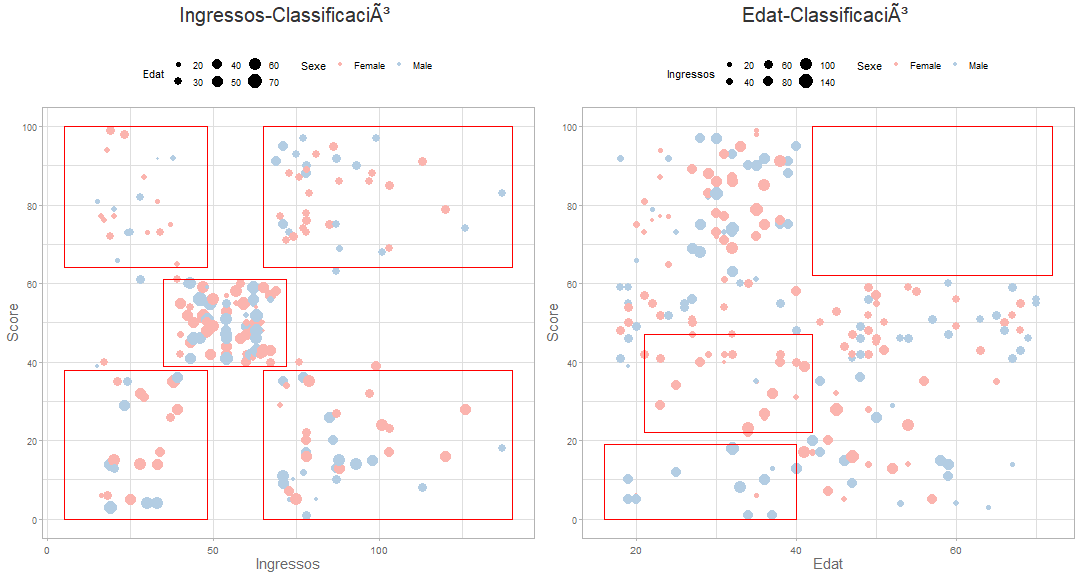
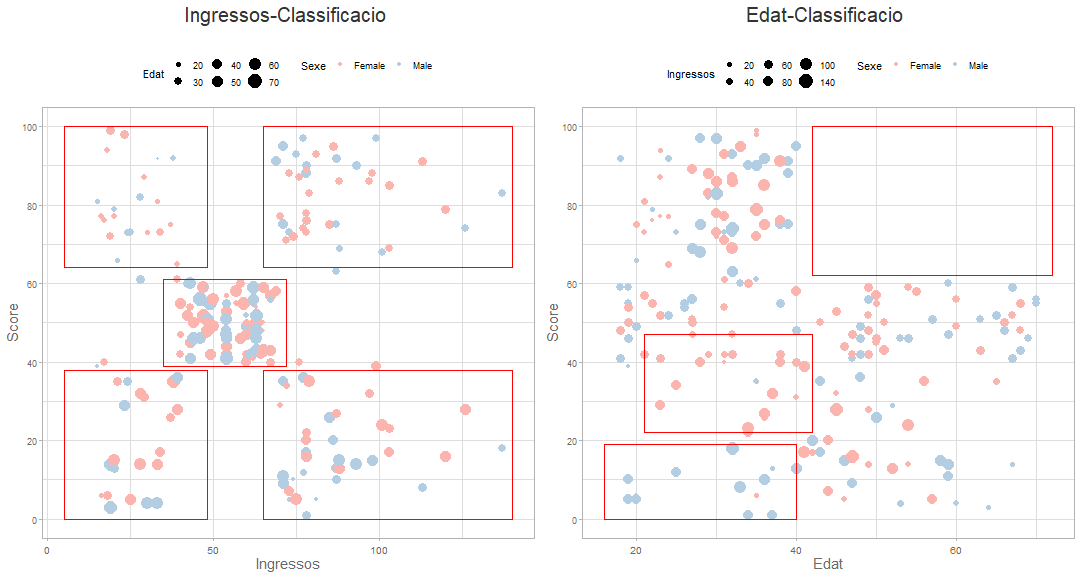
revisio texte

Changed region(s): [[0.1528, 0.0, 0.3667, 0.0625], [0.6722, 0.0, 0.8556, 0.0625]]

diff --git a/_posts/2019-05-11-AnalisiClients.md b/_posts/2019-05-11-AnalisiClients.md
@@ -12,8 +12,8 @@ tags: myblog
  
 ### **Anàlisi Descriptiu**
  
-L'anàlisi descriptiu ens ha de permetre conèixer la tipologia actual dels nostres clients.  
-Discretitzem les variables numèriques per facilitar l'interpretabilitat.  
+L'anàlisi descriptiu ens ha de permetre conàixer la tipologia actual dels clients.  
+Discretitzem les variables numÃ©riques per facilitar l'interpretabilitat.  
   
 
  
@@ -35,26 +35,26 @@ Discretitzem les variables numèriques per facilitar l'interpretabilitat.
  
 &nbsp;  
  
-<img src="/figures/unnamed-chunk-8-1.png" title="plot of chunk unnamed-chunk-8" alt="plot of chunk unnamed-chunk-8" style="display: block; margin: auto;" />
+<img src="jEspluga.github.io/figures/unnamed-chunk-8-1.png" title="plot of chunk unnamed-chunk-8" alt="plot of chunk unnamed-chunk-8" style="display: block; margin: auto;" />
  
 * #### **Sexe**
  
-DiferÃ¨ncia entre homes i dones del 12% (24 persones d'una mostra de 200). 
+Diferència entre homes i dones del 12% (24 persones d'una mostra de 200). 
  
 * #### **Edat**
  
 Un 30% dels clients estan entre els 26-35 anys.  
-La resta de franges d'edat estÃ  molt igualada. Amb un descens natural en la Ãºltima franja d'edat.   
-Entre els 26 i els 55 anys (66,5%) el percentatge de dones Ã©s superior a la diferÃ¨ncia global homes-dones (81 dones - 52 homes). 
-Al voltant dels 50 anys hi ha un augment d'activitat en les dones  i a partir dels 55 anys Ã©s millor la participaciÃ³ d'homes.  
+La resta de franges d'edat està molt igualada. Amb un descens natural en la última franja d'edat.   
+Entre els 26 i els 55 anys (66,5%) el percentatge de dones és superior a la diferència global homes-dones (81 dones - 52 homes). 
+Al voltant dels 50 anys hi ha un augment d'activitat en les dones  i a partir dels 55 anys és millor la participació d'homes.  
   
 &nbsp;  
  
-<img src="/figures/unnamed-chunk-9-1.png" title="plot of chunk unnamed-chunk-9" alt="plot of chunk unnamed-chunk-9" style="display: block; margin: auto;" />
+<img src="jEspluga.github.io/figures/unnamed-chunk-9-1.png" title="plot of chunk unnamed-chunk-9" alt="plot of chunk unnamed-chunk-9" style="display: block; margin: auto;" />
  
 * #### **Ingressos**  
  
-La franja mÃ©s important de nivells d'ingressos es troba entre els  60 i $90.000.  
+La franja més important de nivells d'ingressos es troba entre els  60 i $90.000.  
 Entre els 30 i $90.000 acumulem el 73% dels enquestats.
 Entre els 0 i $90.000 dolars tenim el 89% dels enquestats.  
 Les rendes son molt homogenies entre els dos sexes.  
@@ -63,7 +63,7 @@ Les rendes altes son poc significatives.
 * #### **Score Despesa**  
  
 El 37,5% dels clients estan en un ranking 'average'.  
-La segona posiciÃ³ amb un 18% correspon a un ranking 'baix'.  
+La segona posició amb un 18% correspon a un ranking 'baix'.  
 La resta estan molt equilibrats.  
 La suma dels rankings top + alt suposen un 31%.
 Podriem parlar d'un 31% de bons clients, un 37% de normals i un 31 de dolents.
@@ -72,7 +72,7 @@ Existeix un cert equilibri homes-dones excepte al ranking 'mig-baix' on predomin
   
 ***
  
-### **AnÃ lisi Relacional**  
+### **Anàlisi Relacional**  
  
 &nbsp; 
  
@@ -81,40 +81,40 @@ Existeix un cert equilibri homes-dones excepte al ranking 'mig-baix' on predomin
  
 
  
-<img src="/figures/unnamed-chunk-12-1.png" title="plot of chunk unnamed-chunk-12" alt="plot of chunk unnamed-chunk-12" style="display: block; margin: auto;" />
+<img src="jEspluga.github.io/figures/unnamed-chunk-12-1.png" title="plot of chunk unnamed-chunk-12" alt="plot of chunk unnamed-chunk-12" style="display: block; margin: auto;" />
  
 * #### **Ingressos - Score**  
   
-GrÃ fica que relaciona els ingressos amb la classificaciÃ³ del client.
+Gràfica que relaciona els ingressos amb la classificació del client.
 El tamay del punt ens indica l'edat i el color refereix sexe.  
   
-Aquesta classificaciÃ³ ens permet intuir una certa distribuciÃ³, a la vegada que ens dona dades del perfil de client de cada grup:  
+Aquesta classificació ens permet intuir una certa distribució, a la vegada que ens dona dades del perfil de client de cada grup:  
 - S' insinuen 5 grups diferenciats  
 - No hi ha una clara distinciÃ³ determinada pel sexe  
 - Per ordre de valoraciÃ³ de client:  
-    - clients TOP 1: perfil de baix ingrÃ©s, els mÃ©s joves. ValoraciÃ³ positiva probablement pel volum de compres i no per l'import.  
+    - clients TOP 1: perfil de baix ingrés, els mÃ©s joves. Valoració positiva probablement pel volum de compres i no per l'import.  
     - clients TOP 2: perfil ingressos superiors a la mitjana, edat al voltant dels 40 anys  
-    - clients PROMIG: clients amb valoraciÃ³ 50 de 100 i centrats segins nivell d'ingressos. Edat al voltant dels 50 anys  
+    - clients PROMIG: clients amb valoració 50 de 100 i centrats segins nivell d'ingressos. Edat al voltant dels 50 anys  
     
 
  
 ***  
  
-### **AnÃ lisi ClÃºster** 
+### **Anàlisi Clúster** 
  
-Per confirmar la segmentaciÃ³ intuida visualment grÃ cies a la representaciÃ³ grÃ fica, realitzem un anÃ lisi cluster per
-agrupar automÃ ticament les observacions de la mostra.  
- 
- 
-
- 
-
+Per confirmar la segmentació intuida visualment gràcies a la representació gràfica, realitzem un anàlisi clúster per
+agrupar automàticament les observacions de la mostra.  
  
  
 
  
+
  
-<img src="/figures/unnamed-chunk-17-1.png" title="plot of chunk unnamed-chunk-17" alt="plot of chunk unnamed-chunk-17" style="display: block; margin: auto;" />
+ 
+
+ 
+ 
+<img src="jEspluga.github.io/figures/unnamed-chunk-17-1.png" title="plot of chunk unnamed-chunk-17" alt="plot of chunk unnamed-chunk-17" style="display: block; margin: auto;" />
  
 * #### **Resum per Clusters** 
     
@@ -124,5 +124,30 @@ agrupar automÃ ticament les observacions de la mostra.
   
 
  
-<img src="/figures/unnamed-chunk-21-1.png" title="plot of chunk unnamed-chunk-21" alt="plot of chunk unnamed-chunk-21" style="display: block; margin: auto;" />
+<img src="jEspluga.github.io/figures/unnamed-chunk-21-1.png" title="plot of chunk unnamed-chunk-21" alt="plot of chunk unnamed-chunk-21" style="display: block; margin: auto;" />
  
+**Clúster 4**
+Clients al voltant dels 30 anys, alts ingressos i la millor valoració. Target prioritari.
+Campanyes de màrqueting adreçades a aquest perfil per captar més clients d’aquest tipus considerant la seva alta capacitat de despesa.
+
+**Clúster 2**
+Clients més joves, al voltant dels 22 anys. 
+Poder adquisitiu baix. Valoració positiva probablement per la alta repetibilitat de compra. Campanyes de màrqueting adreçades al públic jove per recordar la possibilitat de compra.
+
+**Clúster 3**
+Grup quantitativament molt important, amb valoració de compra mitjana.
+Multi-edat com és pot veure en el boxplot però amb una mediana al voltant de 45 anys.
+Ingressos per sobre de la mitjana que els determinen com a target interessant.
+Certa preponderància de les dones tal com indica la columna de sexe (superen la marca que indica el percentatge basal homes/dones).
+Es un grup de potencials clients per convertir a una valoració superior.
+Promocions adreçades a les dones entre 20-40 anys per fidelitzar el segment més gran d’aquest clúster.
+Tot indica que la oferta/producte va adreçada majoritàriament a les persones joves.
+Considerar oferir nous productes i serveis al target 50 anys (alts ingressos).
+
+**Clúster 5**
+Clients majoritàriament amb més de 40 anys, ingressos elevats, molt baixa valoració.
+Considerar l’estratègia aportada en el clúster anterior per clients de més edat.
+
+**Clúster 1**
+Clients amb edats a  partir dels 45 anys amb ingressos baixos. No es recomana cap acció.
+
